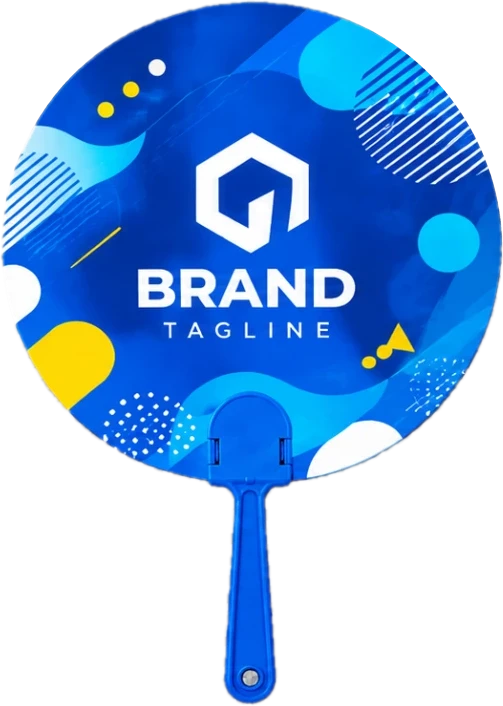
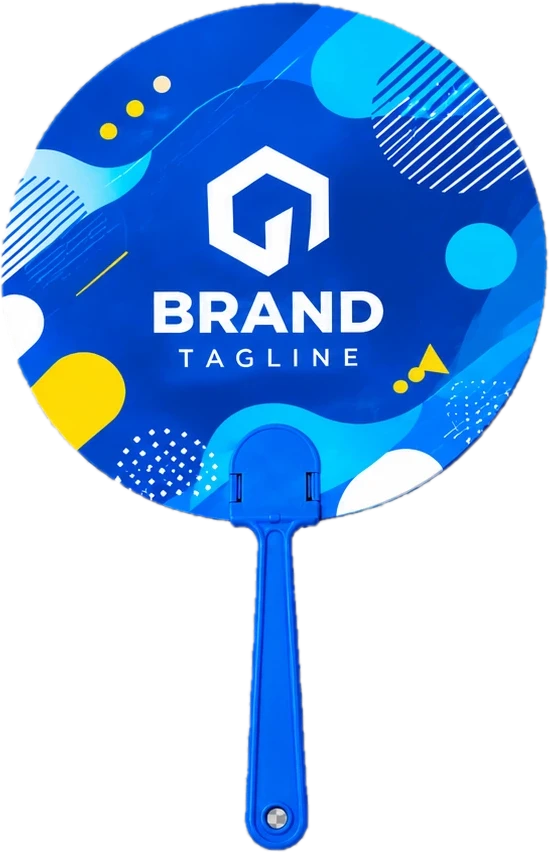
Fans page hero: replace fans with higher-resolution photo
Claude-Session: https://claude.ai/code/session_01CgzsrxTsDsyPtunMz1AFG9

diff --git a/veera.html b/veera.html
@@ -132,9 +132,9 @@
           </div>
         </div>
         <div class="fans-hero-media">
-          <img src="assets/img/fan-hero-brand.webp" width="503" height="706" alt="Промо веер с логотипом бренда">
-          <img src="assets/img/fan-hero-nature.webp" width="503" height="699" alt="Промо веер в эко-стиле с листьями">
-          <img src="assets/img/fan-hero-event.webp" width="504" height="709" alt="Промо веер для фестиваля">
+          <img src="assets/img/fan-hero-brand.webp" width="549" height="852" alt="Промо веер с логотипом бренда">
+          <img src="assets/img/fan-hero-nature.webp" width="561" height="859" alt="Промо веер в эко-стиле с листьями">
+          <img src="assets/img/fan-hero-event.webp" width="565" height="862" alt="Промо веер для фестиваля">
         </div>
       </div>
     </section>
